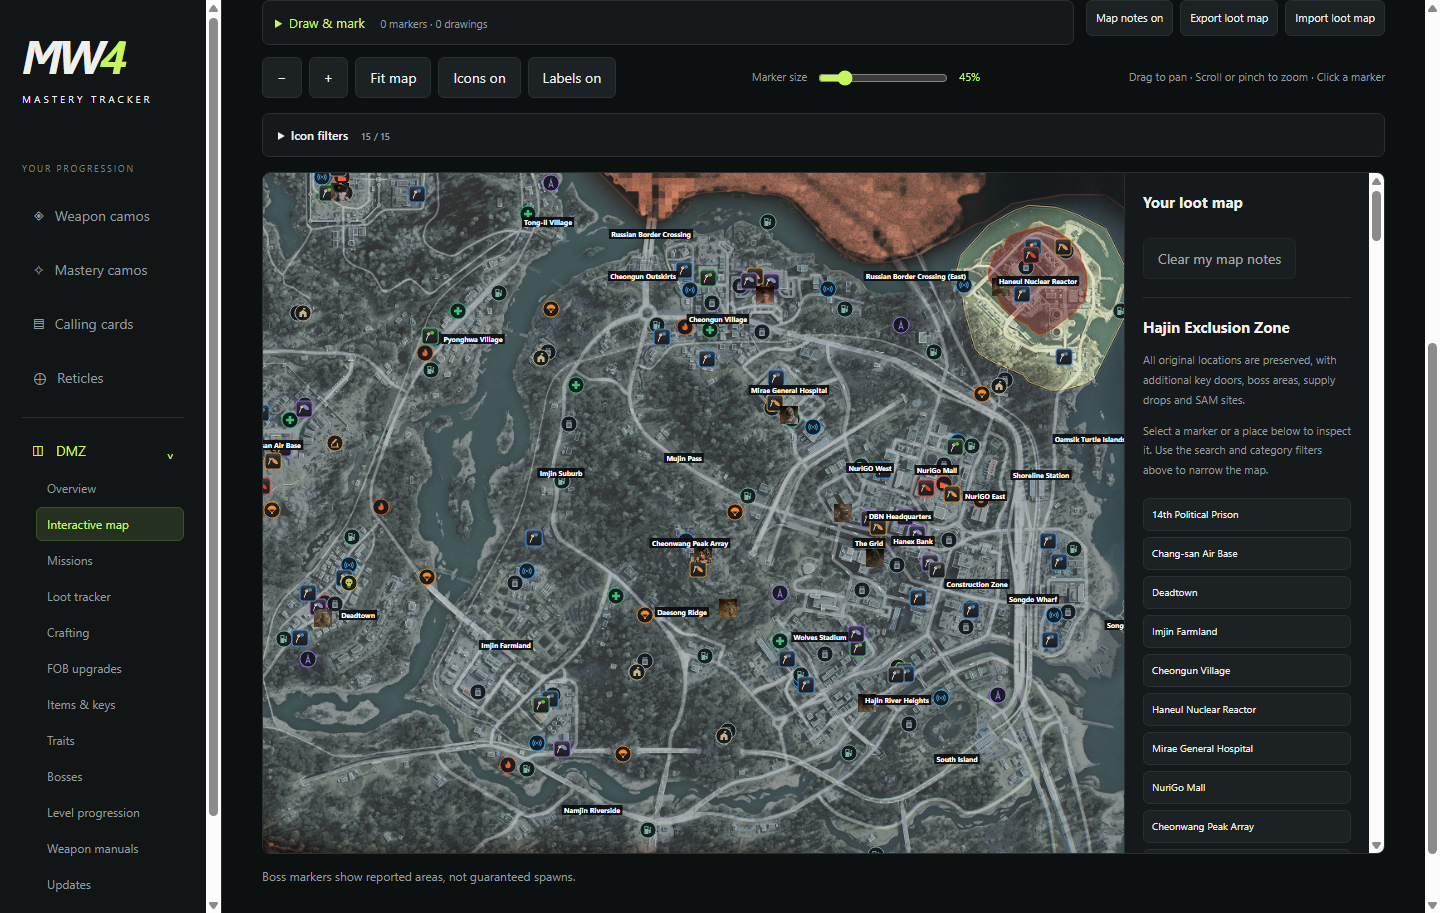
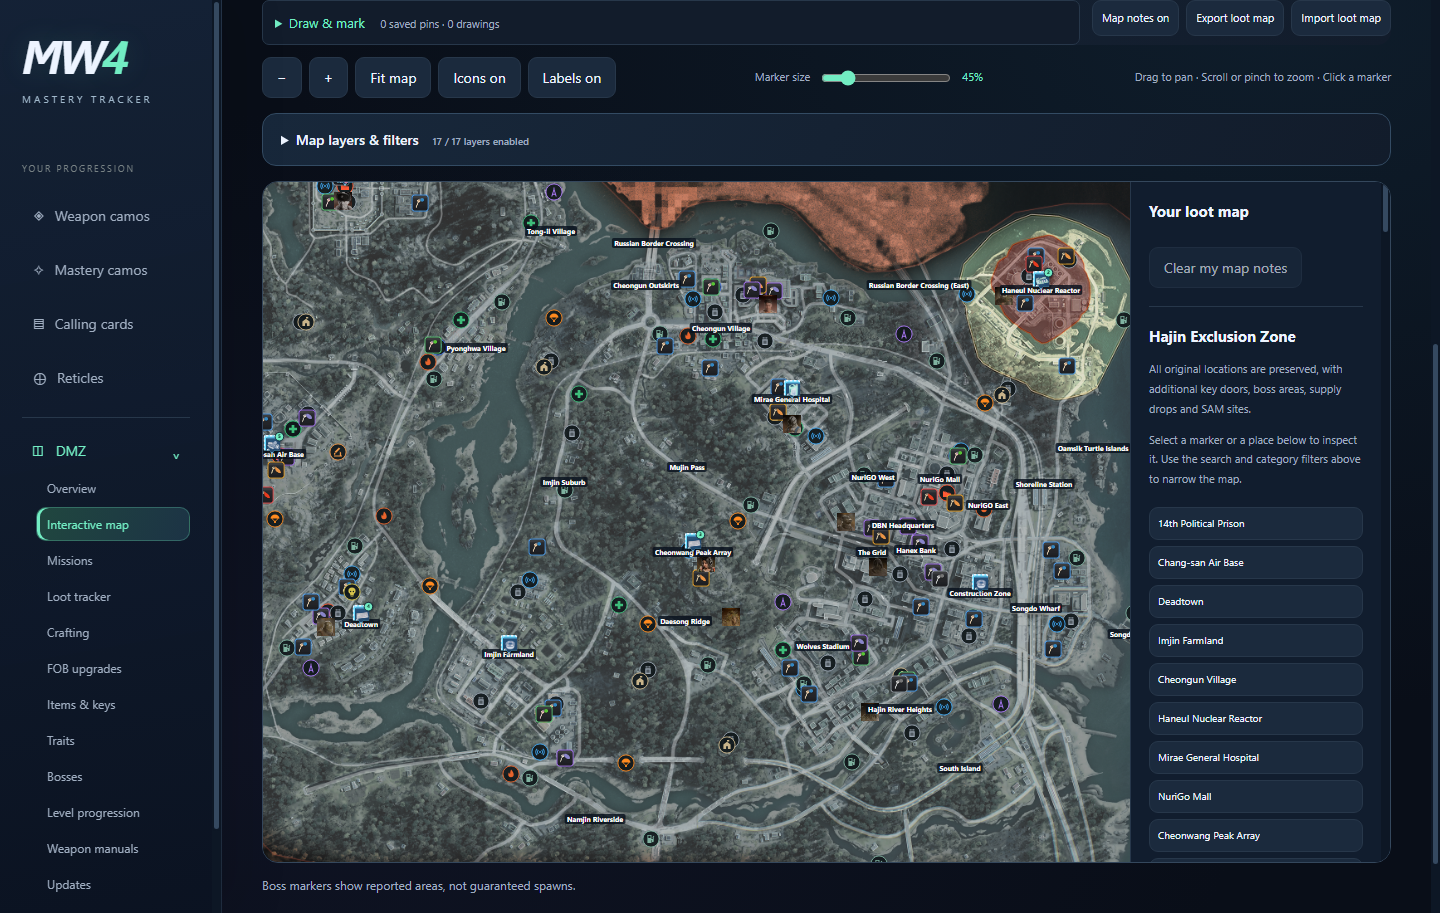
Modernize the app and add detailed map layer filters (v1.1.4)

diff --git a/README.md b/README.md
@@ -24,7 +24,7 @@ No account required. Your progress stays on your PC.
 - **Keep camo progress connected.** Completing a later camo automatically ticks its prerequisites. Multiplayer and DMZ challenge routes share the same completion.
 - **Plan your next craft.** Check recipe unlocks, required materials, and a combined shopping list. Track weapon manuals, extracted blueprints, and FOB upgrades.
 - **Know what you have—and what you need.** Track item and key quantities, filter by rarity, and look up available material locations and key instructions.
-- **Build a loot map with your squad.** Explore Hajin, filter icons, draw routes, and place colored pins or item markers. Export your map notes and merge maps shared by friends.
+- **Build a loot map with your squad.** Explore Hajin with searchable layer filters, loot and boss presets, ingredient search areas, and personal marker color filters. Draw routes and place colored pins or item markers. Export your map notes and merge maps shared by friends.
 - **Keep your progress protected.** Automatic backups run before in-app updates install. Restore a saved backup directly from the Help menu.
 
 ## Get started
@@ -61,6 +61,7 @@ Use **DMZ → Items & keys** to track quantities and check available location in
 
 Open **DMZ → Interactive map → Draw & mark** to add pins, item icons, notes, and drawn routes.
 
+- **Map layers & filters** offers quick presets, individual icon layers, ingredient toggles, and custom marker colors. Ingredient search areas appear by default; shared locations are grouped into one clickable pin.
 - **Export loot map** creates a file you can share with your squad.
 - **Import loot map** merges markers and drawings while skipping duplicates.
 - **Show map locations** on an inventory item shows matching saved pins, built-in key locations, and mapped search areas from the material guide. The count shows which kinds of locations are available. Search-area pins are broad leads, not exact or guaranteed loot spawns. Markers also link back to the item.
